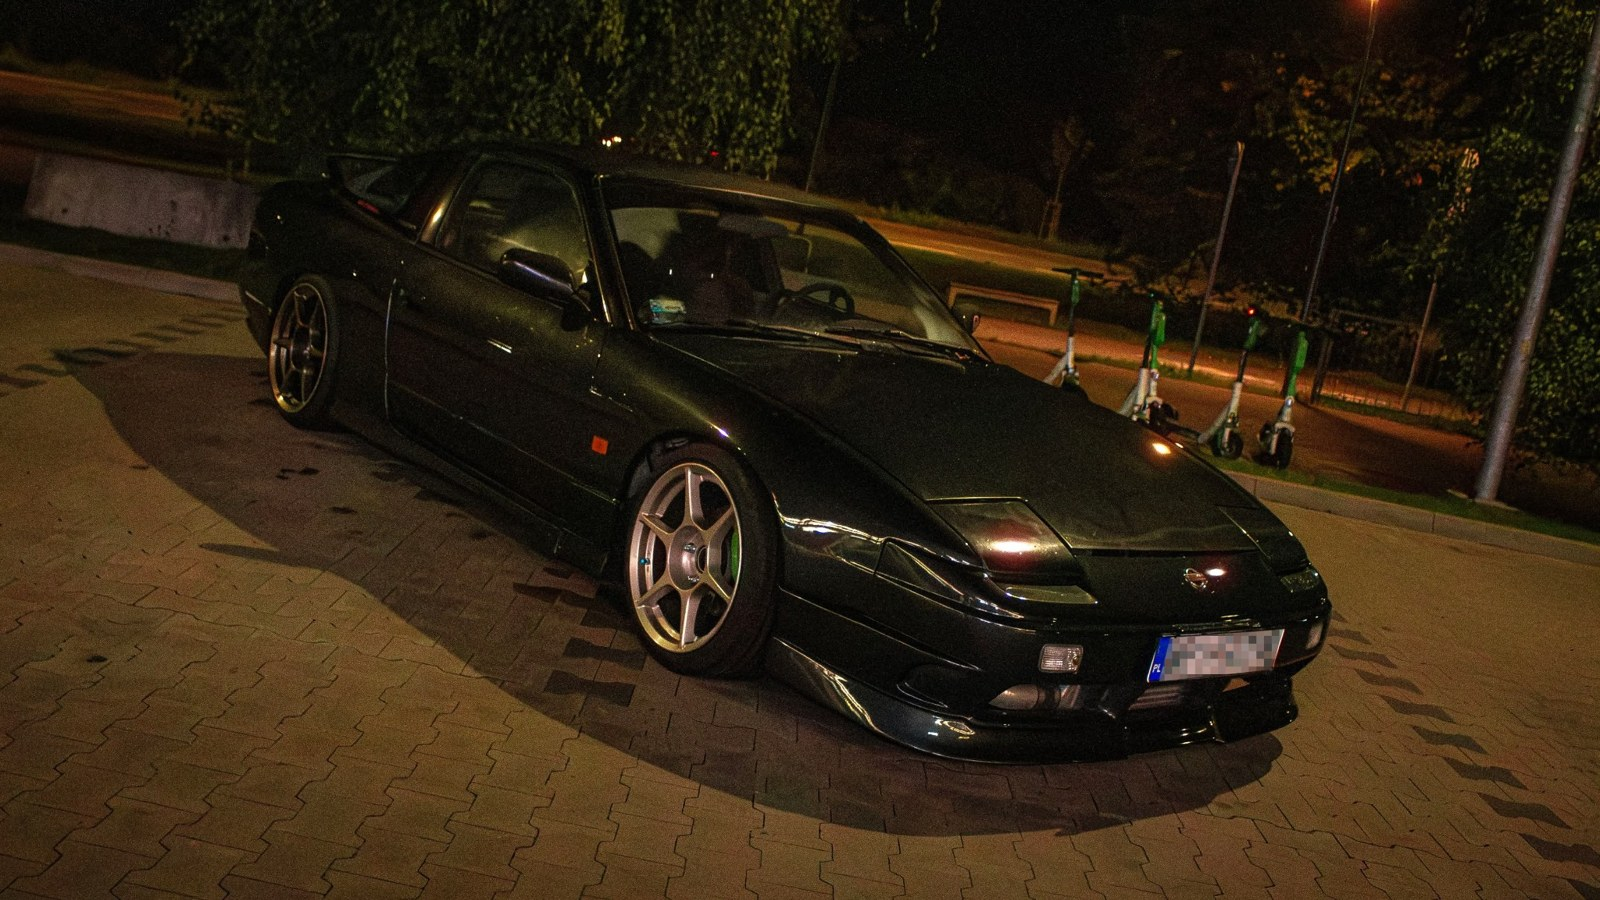
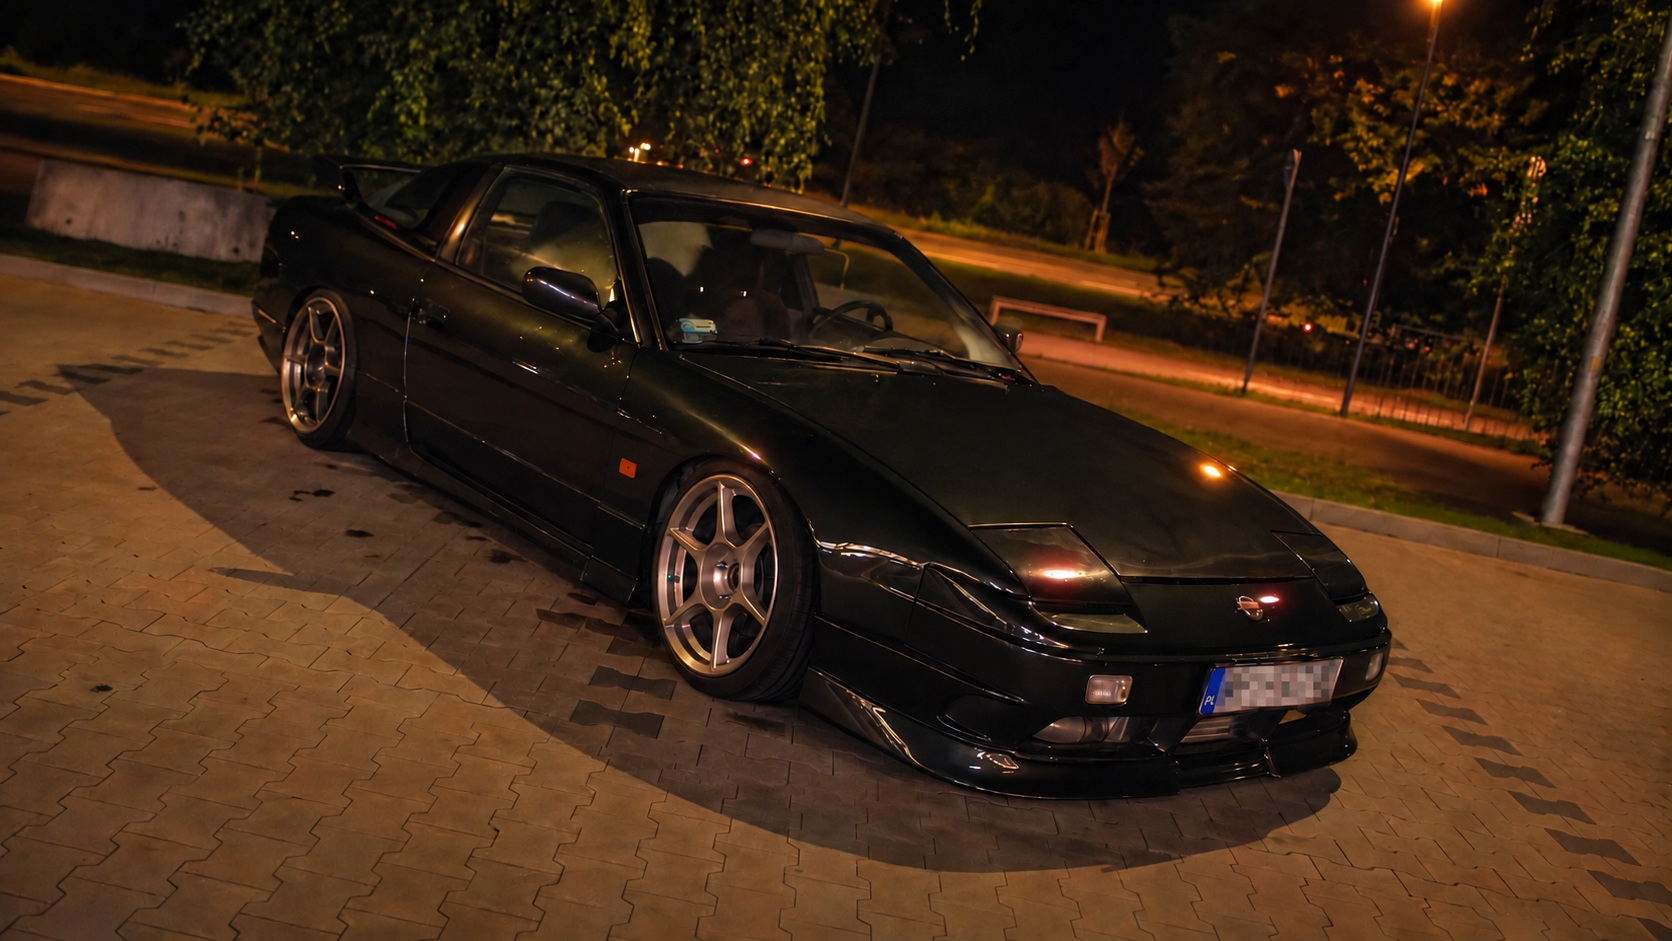
Use edited S13 photo without scooters and enforce Milligram card labels with cache refresh

diff --git a/bis.html b/bis.html
@@ -3,7 +3,7 @@
 <head>
 <meta charset="utf-8"><meta name="viewport" content="width=device-width,initial-scale=1,viewport-fit=cover">
 <title>JAY BLAZE</title><link rel="icon" href="janko.ico">
-<link rel="stylesheet" href="bis.css">
+<link rel="stylesheet" href="bis.css?v=milligram-cards-2">
 <script type="module" src="https://ajax.googleapis.com/ajax/libs/model-viewer/3.4.0/model-viewer.min.js"></script>
 <script defer src="bis.js"></script>
 </head>
@@ -137,7 +137,7 @@
         <section id="machine" class="view" hidden>
           <div class="machine-spec">
             <div class="machine-spec-hero">
-              <button class="machine-spec-image" data-image="img/machine/front.jpg" aria-label="Powiększ zdjęcie Nissana 200SX S13"><img src="img/machine/front.jpg" alt="Nissan 200SX S13" width="1600" height="900" loading="lazy"></button>
+              <button class="machine-spec-image" data-image="img/machine/front.jpg?v=edited-2" aria-label="Powiększ zdjęcie Nissana 200SX S13"><img src="img/machine/front.jpg?v=edited-2" alt="Nissan 200SX S13" width="1672" height="941" loading="lazy"></button>
               <div class="feature-grid" aria-hidden="true"></div>
               <div class="scanlines" aria-hidden="true"></div>
               <div class="machine-spec-identity"><h1>NISSAN<br><em>200SX S13.</em></h1></div>

diff --git a/index.html b/index.html
@@ -3,7 +3,7 @@
 <head>
 <meta charset="utf-8"><meta name="viewport" content="width=device-width,initial-scale=1,viewport-fit=cover">
 <title>JAY BLAZE</title><link rel="icon" href="janko.ico">
-<link rel="stylesheet" href="bis.css">
+<link rel="stylesheet" href="bis.css?v=milligram-cards-2">
 <script type="module" src="https://ajax.googleapis.com/ajax/libs/model-viewer/3.4.0/model-viewer.min.js"></script>
 <script defer src="bis.js"></script>
 </head>
@@ -137,7 +137,7 @@
         <section id="machine" class="view" hidden>
           <div class="machine-spec">
             <div class="machine-spec-hero">
-              <button class="machine-spec-image" data-image="img/machine/front.jpg" aria-label="Powiększ zdjęcie Nissana 200SX S13"><img src="img/machine/front.jpg" alt="Nissan 200SX S13" width="1600" height="900" loading="lazy"></button>
+              <button class="machine-spec-image" data-image="img/machine/front.jpg?v=edited-2" aria-label="Powiększ zdjęcie Nissana 200SX S13"><img src="img/machine/front.jpg?v=edited-2" alt="Nissan 200SX S13" width="1672" height="941" loading="lazy"></button>
               <div class="feature-grid" aria-hidden="true"></div>
               <div class="scanlines" aria-hidden="true"></div>
               <div class="machine-spec-identity"><h1>NISSAN<br><em>200SX S13.</em></h1></div>

diff --git a/bis.css b/bis.css
@@ -1837,3 +1837,9 @@ main{display:block!important}
 .teasers>button>span>i{font-family:'Milligram Macro',Arial,sans-serif;font-weight:700;letter-spacing:.5px}
 .teaser-new-visual span{font-family:'Milligram Macro',Arial,sans-serif;font-weight:900}
 #works .object-menu button small{font-family:'Milligram Macro',Arial,sans-serif;font-weight:400}
+
+/* Explicit card typography; keep labels readable at every breakpoint. */
+#home .teasers>button>span,#home .teasers>button>span>b,#home .teasers>button>span>i{font-family:'Milligram Macro',Arial,sans-serif!important;font-synthesis:none}
+#home .teasers>button>span{font-weight:400!important;font-size:10px;line-height:1.5}
+#home .teasers>button>span>b{font-weight:900!important;font-size:13px;letter-spacing:.3px;line-height:1.2;margin-bottom:6px}
+#home .teasers>button>span>i{font-weight:700!important;font-size:9px}
